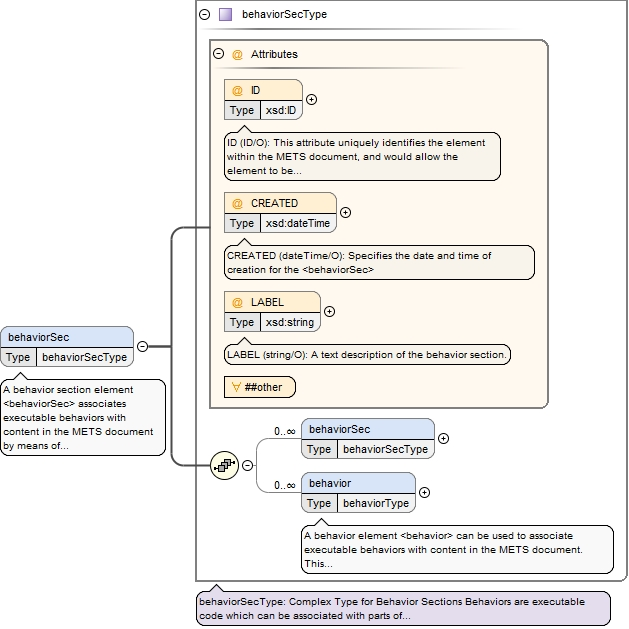
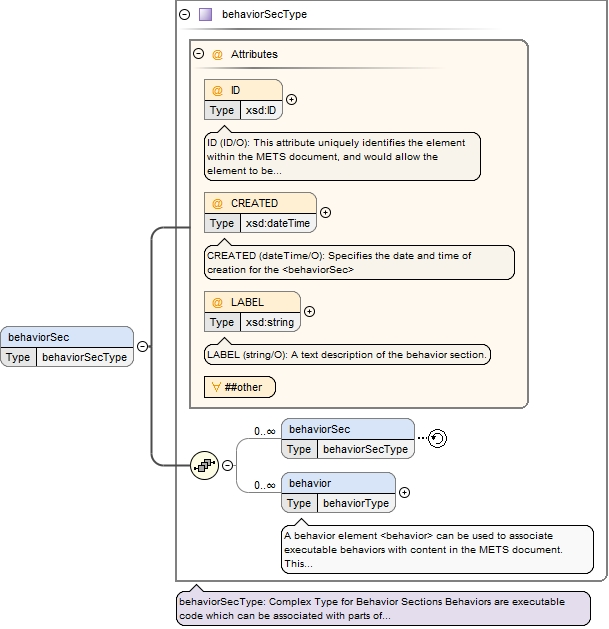
Trying different output options

diff --git a/METS_Docs/mets.html b/METS_Docs/mets.html
@@ -3951,7 +3951,7 @@ var modelBoxes= new Array('model_mets',
                            <div class="floatRight"><input id="button_diagram_mdSecType_mdSecType_mdWrap_binData" type="image" src="img/btM.gif" value="-" onclick="switchState('diagram_mdSecType_mdSecType_mdWrap_binData');" class="control" /></div>
                         </td>
                         <td class="diagram">
-                           <div id="diagram_mdSecType_mdSecType_mdWrap_binData" style="display:block"><img alt="Diagram" border="0" src="img/mets_xsd_Element_binData_1.jpeg" /></div>
+                           <div id="diagram_mdSecType_mdSecType_mdWrap_binData" style="display:block"><img alt="Diagram" border="0" src="img/mets_xsd_Element_binData.jpeg" /></div>
                         </td>
                      </tr>
                      <tr>
@@ -4028,7 +4028,7 @@ var modelBoxes= new Array('model_mets',
                            <div class="floatRight"><input id="button_diagram_mdSecType_mdSecType_mdWrap_xmlData" type="image" src="img/btM.gif" value="-" onclick="switchState('diagram_mdSecType_mdSecType_mdWrap_xmlData');" class="control" /></div>
                         </td>
                         <td class="diagram">
-                           <div id="diagram_mdSecType_mdSecType_mdWrap_xmlData" style="display:block"><img alt="Diagram" border="0" src="img/mets_xsd_Element_xmlData.jpeg" /></div>
+                           <div id="diagram_mdSecType_mdSecType_mdWrap_xmlData" style="display:block"><img alt="Diagram" border="0" src="img/mets_xsd_Element_xmlData_1.jpeg" /></div>
                         </td>
                      </tr>
                      <tr>
@@ -6426,7 +6426,7 @@ var modelBoxes= new Array('model_mets',
                            <div class="floatRight"><input id="button_diagram_fileType_fileType_FContent_binData" type="image" src="img/btM.gif" value="-" onclick="switchState('diagram_fileType_fileType_FContent_binData');" class="control" /></div>
                         </td>
                         <td class="diagram">
-                           <div id="diagram_fileType_fileType_FContent_binData" style="display:block"><img alt="Diagram" border="0" src="img/mets_xsd_Element_binData.jpeg" /></div>
+                           <div id="diagram_fileType_fileType_FContent_binData" style="display:block"><img alt="Diagram" border="0" src="img/mets_xsd_Element_binData_1.jpeg" /></div>
                         </td>
                      </tr>
                      <tr>
@@ -6503,7 +6503,7 @@ var modelBoxes= new Array('model_mets',
                            <div class="floatRight"><input id="button_diagram_fileType_fileType_FContent_xmlData" type="image" src="img/btM.gif" value="-" onclick="switchState('diagram_fileType_fileType_FContent_xmlData');" class="control" /></div>
                         </td>
                         <td class="diagram">
-                           <div id="diagram_fileType_fileType_FContent_xmlData" style="display:block"><img alt="Diagram" border="0" src="img/mets_xsd_Element_xmlData_1.jpeg" /></div>
+                           <div id="diagram_fileType_fileType_FContent_xmlData" style="display:block"><img alt="Diagram" border="0" src="img/mets_xsd_Element_xmlData.jpeg" /></div>
                         </td>
                      </tr>
                      <tr>
@@ -7527,7 +7527,7 @@ var modelBoxes= new Array('model_mets',
                            <div class="floatRight"><input id="button_diagram_structMapType_div" type="image" src="img/btM.gif" value="-" onclick="switchState('diagram_structMapType_div');" class="control" /></div>
                         </td>
                         <td class="diagram">
-                           <div id="diagram_structMapType_div" style="display:block"><img alt="Diagram" border="0" src="img/mets_xsd_Element_div.jpeg" usemap="#mets_xsd_Element_div" /><map name="mets_xsd_Element_div" id="mets_xsd_Element_div">
+                           <div id="diagram_structMapType_div" style="display:block"><img alt="Diagram" border="0" src="img/mets_xsd_Element_div_1.jpeg" usemap="#mets_xsd_Element_div_1" /><map name="mets_xsd_Element_div_1" id="mets_xsd_Element_div_1">
                                  <area alt="mets.tmp#divType_ID" href="mets.html#divType_ID" coords="177,79,270,123" />
                                  <area alt="mets.tmp#ORDERLABELS" href="mets.html#ORDERLABELS" coords="180,195,310,221" />
                                  <area alt="mets.tmp#divType_DMDID" href="mets.html#divType_DMDID" coords="177,236,296,280" />
@@ -8370,7 +8370,7 @@ var modelBoxes= new Array('model_mets',
                            <div class="floatRight"><input id="button_diagram_parType_area" type="image" src="img/btM.gif" value="-" onclick="switchState('diagram_parType_area');" class="control" /></div>
                         </td>
                         <td class="diagram">
-                           <div id="diagram_parType_area" style="display:block"><img alt="Diagram" border="0" src="img/mets_xsd_Element_area_1.jpeg" usemap="#mets_xsd_Element_area_1" /><map name="mets_xsd_Element_area_1" id="mets_xsd_Element_area_1">
+                           <div id="diagram_parType_area" style="display:block"><img alt="Diagram" border="0" src="img/mets_xsd_Element_area.jpeg" usemap="#mets_xsd_Element_area" /><map name="mets_xsd_Element_area" id="mets_xsd_Element_area">
                                  <area alt="mets.tmp#areaType_ID" href="mets.html#areaType_ID" coords="165,79,258,123" />
                                  <area alt="mets.tmp#areaType_FILEID" href="mets.html#areaType_FILEID" coords="165,192,277,236" />
                                  <area alt="mets.tmp#areaType_SHAPE" href="mets.html#areaType_SHAPE" coords="165,305,347,349" />
@@ -8869,7 +8869,7 @@ var modelBoxes= new Array('model_mets',
                            <div class="floatRight"><input id="button_diagram_seqType_area" type="image" src="img/btM.gif" value="-" onclick="switchState('diagram_seqType_area');" class="control" /></div>
                         </td>
                         <td class="diagram">
-                           <div id="diagram_seqType_area" style="display:block"><img alt="Diagram" border="0" src="img/mets_xsd_Element_area_2.jpeg" usemap="#mets_xsd_Element_area_2" /><map name="mets_xsd_Element_area_2" id="mets_xsd_Element_area_2">
+                           <div id="diagram_seqType_area" style="display:block"><img alt="Diagram" border="0" src="img/mets_xsd_Element_area_1.jpeg" usemap="#mets_xsd_Element_area_1" /><map name="mets_xsd_Element_area_1" id="mets_xsd_Element_area_1">
                                  <area alt="mets.tmp#areaType_ID" href="mets.html#areaType_ID" coords="165,79,258,123" />
                                  <area alt="mets.tmp#areaType_FILEID" href="mets.html#areaType_FILEID" coords="165,192,277,236" />
                                  <area alt="mets.tmp#areaType_SHAPE" href="mets.html#areaType_SHAPE" coords="165,305,347,349" />
@@ -9578,7 +9578,7 @@ var modelBoxes= new Array('model_mets',
                            <div class="floatRight"><input id="button_diagram_divType_divType_fptr_area" type="image" src="img/btM.gif" value="-" onclick="switchState('diagram_divType_divType_fptr_area');" class="control" /></div>
                         </td>
                         <td class="diagram">
-                           <div id="diagram_divType_divType_fptr_area" style="display:block"><img alt="Diagram" border="0" src="img/mets_xsd_Element_area.jpeg" usemap="#mets_xsd_Element_area" /><map name="mets_xsd_Element_area" id="mets_xsd_Element_area">
+                           <div id="diagram_divType_divType_fptr_area" style="display:block"><img alt="Diagram" border="0" src="img/mets_xsd_Element_area_2.jpeg" usemap="#mets_xsd_Element_area_2" /><map name="mets_xsd_Element_area_2" id="mets_xsd_Element_area_2">
                                  <area alt="mets.tmp#areaType_ID" href="mets.html#areaType_ID" coords="185,79,278,123" />
                                  <area alt="mets.tmp#areaType_FILEID" href="mets.html#areaType_FILEID" coords="185,192,297,236" />
                                  <area alt="mets.tmp#areaType_SHAPE" href="mets.html#areaType_SHAPE" coords="185,305,367,349" />
@@ -9901,7 +9901,7 @@ var modelBoxes= new Array('model_mets',
                            <div class="floatRight"><input id="button_diagram_divType_div" type="image" src="img/btM.gif" value="-" onclick="switchState('diagram_divType_div');" class="control" /></div>
                         </td>
                         <td class="diagram">
-                           <div id="diagram_divType_div" style="display:block"><img alt="Diagram" border="0" src="img/mets_xsd_Element_div_1.jpeg" usemap="#mets_xsd_Element_div_1" /><map name="mets_xsd_Element_div_1" id="mets_xsd_Element_div_1">
+                           <div id="diagram_divType_div" style="display:block"><img alt="Diagram" border="0" src="img/mets_xsd_Element_div.jpeg" usemap="#mets_xsd_Element_div" /><map name="mets_xsd_Element_div" id="mets_xsd_Element_div">
                                  <area alt="mets.tmp#divType_ID" href="mets.html#divType_ID" coords="157,79,250,123" />
                                  <area alt="mets.tmp#ORDERLABELS" href="mets.html#ORDERLABELS" coords="160,195,290,221" />
                                  <area alt="mets.tmp#divType_DMDID" href="mets.html#divType_DMDID" coords="157,236,276,280" />
@@ -11013,7 +11013,7 @@ var modelBoxes= new Array('model_mets',
                            <div class="floatRight"><input id="button_diagram_metsType_behaviorSec" type="image" src="img/btM.gif" value="-" onclick="switchState('diagram_metsType_behaviorSec');" class="control" /></div>
                         </td>
                         <td class="diagram">
-                           <div id="diagram_metsType_behaviorSec" style="display:block"><img alt="Diagram" border="0" src="img/mets_xsd_Element_behaviorSec.jpeg" usemap="#mets_xsd_Element_behaviorSec" /><map name="mets_xsd_Element_behaviorSec" id="mets_xsd_Element_behaviorSec">
+                           <div id="diagram_metsType_behaviorSec" style="display:block"><img alt="Diagram" border="0" src="img/mets_xsd_Element_behaviorSec_1.jpeg" usemap="#mets_xsd_Element_behaviorSec_1" /><map name="mets_xsd_Element_behaviorSec_1" id="mets_xsd_Element_behaviorSec_1">
                                  <area alt="mets.tmp#behaviorSecType_ID" href="mets.html#behaviorSecType_ID" coords="224,79,317,123" />
                                  <area alt="mets.tmp#behaviorSecType_CREATED" href="mets.html#behaviorSecType_CREATED" coords="224,192,351,236" />
                                  <area alt="mets.tmp#behaviorSecType_LABEL" href="mets.html#behaviorSecType_LABEL" coords="224,291,335,335" />
@@ -11180,7 +11180,7 @@ var modelBoxes= new Array('model_mets',
                            <div class="floatRight"><input id="button_diagram_behaviorSecType_behaviorSec" type="image" src="img/btM.gif" value="-" onclick="switchState('diagram_behaviorSecType_behaviorSec');" class="control" /></div>
                         </td>
                         <td class="diagram">
-                           <div id="diagram_behaviorSecType_behaviorSec" style="display:block"><img alt="Diagram" border="0" src="img/mets_xsd_Element_behaviorSec_1.jpeg" usemap="#mets_xsd_Element_behaviorSec_1" /><map name="mets_xsd_Element_behaviorSec_1" id="mets_xsd_Element_behaviorSec_1">
+                           <div id="diagram_behaviorSecType_behaviorSec" style="display:block"><img alt="Diagram" border="0" src="img/mets_xsd_Element_behaviorSec.jpeg" usemap="#mets_xsd_Element_behaviorSec" /><map name="mets_xsd_Element_behaviorSec" id="mets_xsd_Element_behaviorSec">
                                  <area alt="mets.tmp#behaviorSecType_ID" href="mets.html#behaviorSecType_ID" coords="204,79,297,123" />
                                  <area alt="mets.tmp#behaviorSecType_CREATED" href="mets.html#behaviorSecType_CREATED" coords="204,192,331,236" />
                                  <area alt="mets.tmp#behaviorSecType_LABEL" href="mets.html#behaviorSecType_LABEL" coords="204,291,315,335" />
